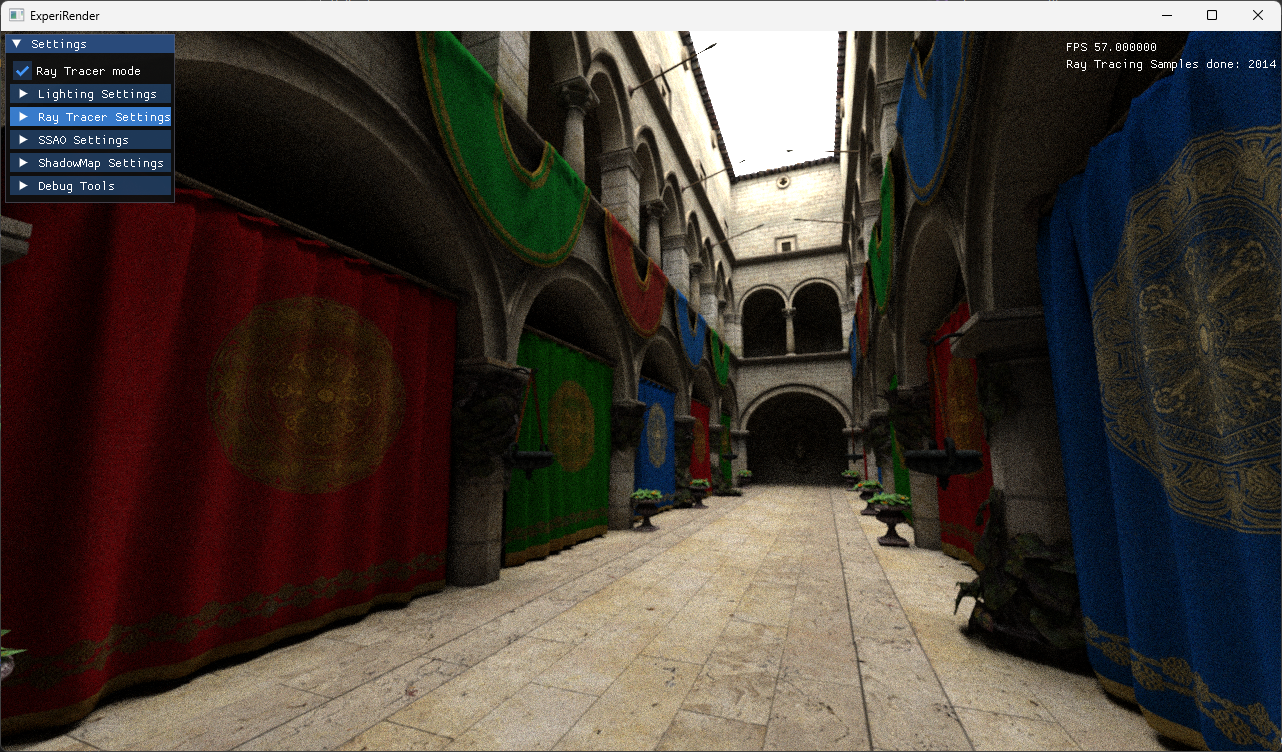
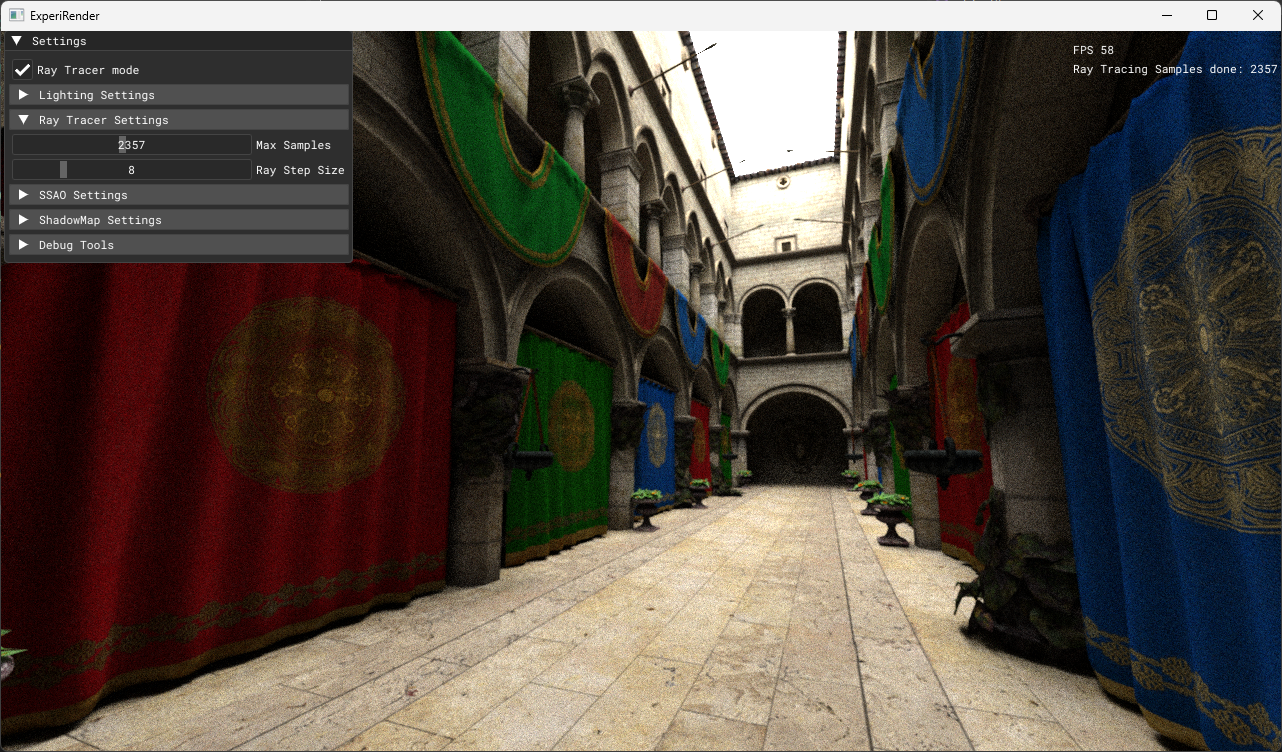
Update README.md + gui

diff --git a/src/ui.cpp b/src/ui.cpp
@@ -6,80 +6,74 @@
 #include "vk_engine.h"
 
 void ui::set_mainpanel_theme() {
-	ImGuiStyle& style = ImGui::GetStyle();
-	ImVec4* colors = style.Colors;
+	ImGuiStyle* style = &ImGui::GetStyle();
+	ImVec4* colors = style->Colors;
 
-	// Primary background
-	colors[ImGuiCol_WindowBg] = ImVec4(0.07f, 0.07f, 0.09f, 1.00f);  // #131318
-	colors[ImGuiCol_MenuBarBg] = ImVec4(0.07f, 0.07f, 0.09f, 1.00f); // #131318
+	colors[ImGuiCol_Text] = ImVec4(1.000f, 1.000f, 1.000f, 1.000f);
+	colors[ImGuiCol_TextDisabled] = ImVec4(0.500f, 0.500f, 0.500f, 1.000f);
+	colors[ImGuiCol_WindowBg] = ImVec4(0.180f, 0.180f, 0.180f, 1.000f);
+	colors[ImGuiCol_ChildBg] = ImVec4(0.280f, 0.280f, 0.280f, 0.000f);
+	colors[ImGuiCol_PopupBg] = ImVec4(0.313f, 0.313f, 0.313f, 1.000f);
+	colors[ImGuiCol_Border] = ImVec4(0.266f, 0.266f, 0.266f, 1.000f);
+	colors[ImGuiCol_BorderShadow] = ImVec4(0.000f, 0.000f, 0.000f, 0.000f);
+	colors[ImGuiCol_FrameBg] = ImVec4(0.160f, 0.160f, 0.160f, 1.000f);
+	colors[ImGuiCol_FrameBgHovered] = ImVec4(0.200f, 0.200f, 0.200f, 1.000f);
+	colors[ImGuiCol_FrameBgActive] = ImVec4(0.280f, 0.280f, 0.280f, 1.000f);
+	colors[ImGuiCol_TitleBg] = ImVec4(0.148f, 0.148f, 0.148f, 1.000f);
+	colors[ImGuiCol_TitleBgActive] = ImVec4(0.148f, 0.148f, 0.148f, 1.000f);
+	colors[ImGuiCol_TitleBgCollapsed] = ImVec4(0.148f, 0.148f, 0.148f, 1.000f);
+	colors[ImGuiCol_MenuBarBg] = ImVec4(0.195f, 0.195f, 0.195f, 1.000f);
+	colors[ImGuiCol_ScrollbarBg] = ImVec4(0.160f, 0.160f, 0.160f, 1.000f);
+	colors[ImGuiCol_ScrollbarGrab] = ImVec4(0.277f, 0.277f, 0.277f, 1.000f);
+	colors[ImGuiCol_ScrollbarGrabHovered] = ImVec4(0.300f, 0.300f, 0.300f, 1.000f);
+	colors[ImGuiCol_ScrollbarGrabActive] = ImVec4(1.000f, 0.391f, 0.000f, 1.000f);
+	colors[ImGuiCol_CheckMark] = ImVec4(1.000f, 1.000f, 1.000f, 1.000f);
+	colors[ImGuiCol_SliderGrab] = ImVec4(0.391f, 0.391f, 0.391f, 1.000f);
+	colors[ImGuiCol_SliderGrabActive] = ImVec4(1.000f, 0.391f, 0.000f, 1.000f);
+	colors[ImGuiCol_Button] = ImVec4(1.000f, 1.000f, 1.000f, 0.000f);
+	colors[ImGuiCol_ButtonHovered] = ImVec4(1.000f, 1.000f, 1.000f, 0.156f);
+	colors[ImGuiCol_ButtonActive] = ImVec4(1.000f, 1.000f, 1.000f, 0.391f);
+	colors[ImGuiCol_Header] = ImVec4(0.313f, 0.313f, 0.313f, 1.000f);
+	colors[ImGuiCol_HeaderHovered] = ImVec4(0.469f, 0.469f, 0.469f, 1.000f);
+	colors[ImGuiCol_HeaderActive] = ImVec4(0.469f, 0.469f, 0.469f, 1.000f);
+	colors[ImGuiCol_Separator] = colors[ImGuiCol_Border];
+	colors[ImGuiCol_SeparatorHovered] = ImVec4(0.391f, 0.391f, 0.391f, 1.000f);
+	colors[ImGuiCol_SeparatorActive] = ImVec4(1.000f, 0.391f, 0.000f, 1.000f);
+	colors[ImGuiCol_ResizeGrip] = ImVec4(1.000f, 1.000f, 1.000f, 0.250f);
+	colors[ImGuiCol_ResizeGripHovered] = ImVec4(1.000f, 1.000f, 1.000f, 0.670f);
+	colors[ImGuiCol_ResizeGripActive] = ImVec4(1.000f, 0.391f, 0.000f, 1.000f);
+	colors[ImGuiCol_Tab] = ImVec4(0.098f, 0.098f, 0.098f, 1.000f);
+	colors[ImGuiCol_TabHovered] = ImVec4(0.352f, 0.352f, 0.352f, 1.000f);
+	colors[ImGuiCol_TabActive] = ImVec4(0.195f, 0.195f, 0.195f, 1.000f);
+	colors[ImGuiCol_TabUnfocused] = ImVec4(0.098f, 0.098f, 0.098f, 1.000f);
+	colors[ImGuiCol_TabUnfocusedActive] = ImVec4(0.195f, 0.195f, 0.195f, 1.000f);
+	colors[ImGuiCol_PlotLines] = ImVec4(0.469f, 0.469f, 0.469f, 1.000f);
+	colors[ImGuiCol_PlotLinesHovered] = ImVec4(1.000f, 0.391f, 0.000f, 1.000f);
+	colors[ImGuiCol_PlotHistogram] = ImVec4(0.586f, 0.586f, 0.586f, 1.000f);
+	colors[ImGuiCol_PlotHistogramHovered] = ImVec4(1.000f, 0.391f, 0.000f, 1.000f);
+	colors[ImGuiCol_TextSelectedBg] = ImVec4(1.000f, 1.000f, 1.000f, 0.156f);
+	colors[ImGuiCol_DragDropTarget] = ImVec4(1.000f, 0.391f, 0.000f, 1.000f);
+	colors[ImGuiCol_NavHighlight] = ImVec4(1.000f, 0.391f, 0.000f, 1.000f);
+	colors[ImGuiCol_NavWindowingHighlight] = ImVec4(1.000f, 0.391f, 0.000f, 1.000f);
+	colors[ImGuiCol_NavWindowingDimBg] = ImVec4(0.000f, 0.000f, 0.000f, 0.586f);
+	colors[ImGuiCol_ModalWindowDimBg] = ImVec4(0.000f, 0.000f, 0.000f, 0.586f);
 
-	colors[ImGuiCol_PopupBg] = ImVec4(0.18f, 0.18f, 0.22f, 1.00f);
+	style->ChildRounding = 4.0f;
+	style->FrameBorderSize = 1.0f;
+	style->FrameRounding = 2.0f;
+	style->GrabMinSize = 7.0f;
+	style->PopupRounding = 2.0f;
+	style->ScrollbarRounding = 12.0f;
+	style->ScrollbarSize = 13.0f;
+	style->TabBorderSize = 1.0f;
+	style->TabRounding = 0.0f;
+	style->WindowRounding = 4.0f;
 
-	// Headers
-	colors[ImGuiCol_Header] = ImVec4(0.18f, 0.18f, 0.22f, 1.00f);
-	colors[ImGuiCol_HeaderHovered] = ImVec4(0.30f, 0.30f, 0.40f, 1.00f);
-	colors[ImGuiCol_HeaderActive] = ImVec4(0.25f, 0.25f, 0.35f, 1.00f);
-
-	// Buttons
-	colors[ImGuiCol_Button] = ImVec4(0.20f, 0.22f, 0.27f, 1.00f);
-	colors[ImGuiCol_ButtonHovered] = ImVec4(0.30f, 0.32f, 0.40f, 1.00f);
-	colors[ImGuiCol_ButtonActive] = ImVec4(0.35f, 0.38f, 0.50f, 1.00f);
-
-	// Frame BG
-	colors[ImGuiCol_FrameBg] = ImVec4(0.15f, 0.15f, 0.18f, 1.00f);
-	colors[ImGuiCol_FrameBgHovered] = ImVec4(0.22f, 0.22f, 0.27f, 1.00f);
-	colors[ImGuiCol_FrameBgActive] = ImVec4(0.25f, 0.25f, 0.30f, 1.00f);
-
-	// Tabs
-	colors[ImGuiCol_Tab] = ImVec4(0.18f, 0.18f, 0.22f, 1.00f);
-	colors[ImGuiCol_TabHovered] = ImVec4(0.35f, 0.35f, 0.50f, 1.00f);
-	colors[ImGuiCol_TabActive] = ImVec4(0.25f, 0.25f, 0.38f, 1.00f);
-	colors[ImGuiCol_TabUnfocused] = ImVec4(0.13f, 0.13f, 0.17f, 1.00f);
-	colors[ImGuiCol_TabUnfocusedActive] = ImVec4(0.20f, 0.20f, 0.25f, 1.00f);
-
-	// Title
-	colors[ImGuiCol_TitleBg] = ImVec4(0.12f, 0.12f, 0.15f, 1.00f);
-	colors[ImGuiCol_TitleBgActive] = ImVec4(0.15f, 0.15f, 0.20f, 1.00f);
-	colors[ImGuiCol_TitleBgCollapsed] = ImVec4(0.10f, 0.10f, 0.12f, 1.00f);
-
-	// Borders
-	colors[ImGuiCol_Border] = ImVec4(0.20f, 0.20f, 0.25f, 0.50f);
-	colors[ImGuiCol_BorderShadow] = ImVec4(0.00f, 0.00f, 0.00f, 0.00f);
-
-	// Text
-	colors[ImGuiCol_Text] = ImVec4(0.90f, 0.90f, 0.95f, 1.00f);
-	colors[ImGuiCol_TextDisabled] = ImVec4(0.50f, 0.50f, 0.55f, 1.00f);
-
-	// Highlights
-	colors[ImGuiCol_CheckMark] = ImVec4(0.50f, 0.70f, 1.00f, 1.00f);
-	colors[ImGuiCol_SliderGrab] = ImVec4(0.50f, 0.70f, 1.00f, 1.00f);
-	colors[ImGuiCol_SliderGrabActive] = ImVec4(0.60f, 0.80f, 1.00f, 1.00f);
-	colors[ImGuiCol_ResizeGrip] = ImVec4(0.50f, 0.70f, 1.00f, 0.50f);
-	colors[ImGuiCol_ResizeGripHovered] = ImVec4(0.60f, 0.80f, 1.00f, 0.75f);
-	colors[ImGuiCol_ResizeGripActive] = ImVec4(0.70f, 0.90f, 1.00f, 1.00f);
-
-	// Scrollbar
-	colors[ImGuiCol_ScrollbarBg] = ImVec4(0.10f, 0.10f, 0.12f, 1.00f);
-	colors[ImGuiCol_ScrollbarGrab] = ImVec4(0.30f, 0.30f, 0.35f, 1.00f);
-	colors[ImGuiCol_ScrollbarGrabHovered] = ImVec4(0.40f, 0.40f, 0.50f, 1.00f);
-	colors[ImGuiCol_ScrollbarGrabActive] = ImVec4(0.45f, 0.45f, 0.55f, 1.00f);
-
-	// Style tweaks
-	style.WindowRounding = 5.0f;
-	style.FrameRounding = 5.0f;
-	style.GrabRounding = 5.0f;
-	style.TabRounding = 5.0f;
-	style.PopupRounding = 5.0f;
-	style.ScrollbarRounding = 5.0f;
-	style.WindowPadding = ImVec2(10, 10);
-	style.FramePadding = ImVec2(6, 4);
-	style.ItemSpacing = ImVec2(8, 6);
-	style.PopupBorderSize = 0.f;
 }
 
 void ui::set_font() {
 	ImGuiIO& io = ImGui::GetIO();
-	const char* fontPath = "..\\assets\\fonts\\Lexend\\Lexend-VariableFont_wght.ttf";
+	const char* fontPath = "..\\assets\\fonts\\Roboto_Mono\\RobotoMono-VariableFont_wght.ttf";
 	float fontSize = 15.0f;
 
 	// Check if the font file exists

diff --git a/README.md b/README.md
@@ -8,12 +8,8 @@ A Graphics Renderer written in Vulkan mainly for visualization purposes required
     - Shadow Maps 
     - Screen Space Ambient Occlusion (SSAO) 
     - Mipmaps 
-    - Blinn-phong lighting support for
-        - textures (normal maps, roughness maps) 
-        - metallic materials.
-- Ray Tracing pipeline for,
-    - Geometry
-    - Texture
+    - Blinn-phong lighting 
+- Hardware Ray Tracing
 
 Currently Working on:
 
@@ -46,5 +42,6 @@ Model - ["The Traveling Wagon - Cheeeeeeeeeese"](https://sketchfab.com/3d-models
 - [Volk](https://github.com/zeux/volk)
 - [FastGLTF](https://github.com/spnda/fastgltf)
 - [DearImGui](https://github.com/ocornut/imgui)
+- [spdlog](https://github.com/gabime/spdlog)
 
 
